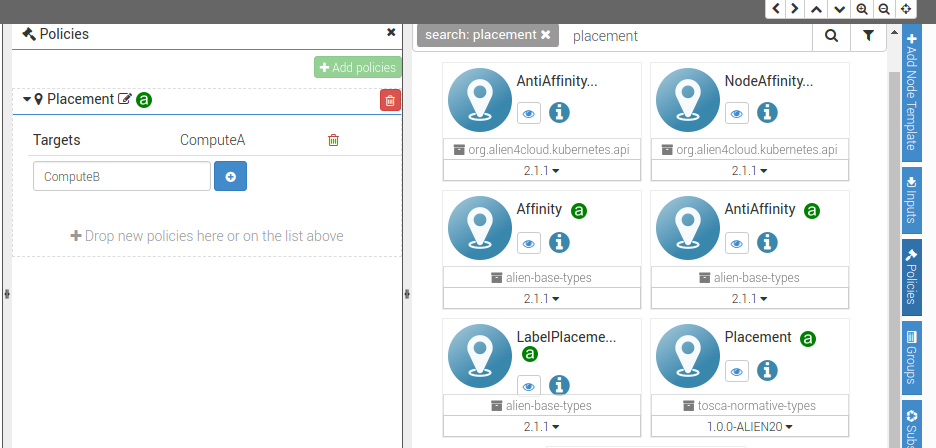
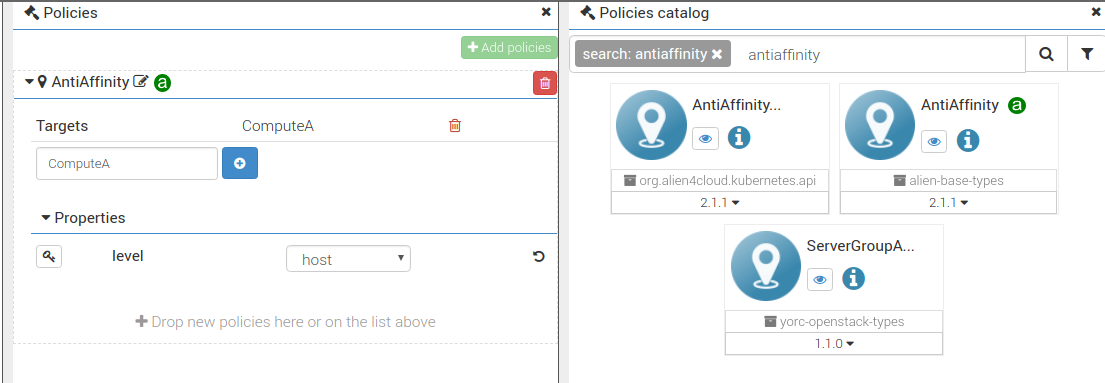
Refactor yorc.openstack.policies.ServerGroup to yorc.openstack.policies.ServerGroupAntiAffinity and yorc.openstack.policies.ServerGroupAffinity Increment yorc.openstack.types.version Update documentation

diff --git a/alien4cloud-yorc-plugin/src/main/java/org/ystia/yorc/alien4cloud/plugin/policies/OpenStackServerGroupTopologyModifier.java b/alien4cloud-yorc-plugin/src/main/java/org/ystia/yorc/alien4cloud/plugin/policies/OpenStackServerGroupTopologyModifier.java
@@ -33,7 +33,8 @@ public class OpenStackServerGroupTopologyModifier extends TopologyModifierSuppor
 
     protected static final String YORC_OPENSTACK_SERVER_GROUP_TOPOLOGY_MODIFIER = "yorc-openstack-server-group-modifier";
     private static final String TOSCA_NODES_COMPUTE = "tosca.nodes.Compute";
-    private static final String SERVER_GROUP_POLICY = "yorc.openstack.policies.ServerGroupPolicy";
+    private static final String AFFINITY_POLICY = "yorc.openstack.policies.ServerGroupAffinity";
+    private static final String ANTI_AFFINITY_POLICY = "yorc.openstack.policies.ServerGroupAntiAffinity";
 
     @Inject
     private IToscaTypeSearchService toscaTypeSearchService;
@@ -45,7 +46,7 @@ public class OpenStackServerGroupTopologyModifier extends TopologyModifierSuppor
         try {
             WorkflowValidator.disableValidationThreadLocal.set(true);
             List<PolicyTemplate> policies = safe(topology.getPolicies()).values().stream()
-                    .filter(policyTemplate -> Objects.equals(SERVER_GROUP_POLICY, policyTemplate.getType())).collect(Collectors.toList());
+                    .filter(policyTemplate -> Objects.equals(AFFINITY_POLICY, policyTemplate.getType()) || Objects.equals(ANTI_AFFINITY_POLICY, policyTemplate.getType())).collect(Collectors.toList());
 
             if (!checkDuplicatedTargetsIntoPolicies(policies, context)) {
                 safe(policies).forEach(policyTemplate -> apply(policyTemplate, topology, context));
@@ -62,7 +63,7 @@ public class OpenStackServerGroupTopologyModifier extends TopologyModifierSuppor
         for (PolicyTemplate policy : policies) {
             for (String target :  policy.getTargets()) {
                 if (allTargets.containsKey(target)) {
-                    context.log().error("Found target <{}> into several policies: <{}, {}>. Can't associate a target to several policies.", target, allTargets.get(target), policy.getName());
+                    context.log().error("Found target <{}> into several policies: <{}, {}>. Can't associate a target to several affinity/anti-affinity policies.", target, allTargets.get(target), policy.getName());
                     return true;
                 }
                 allTargets.put(target, policy.getName());
@@ -95,17 +96,12 @@ public class OpenStackServerGroupTopologyModifier extends TopologyModifierSuppor
     }
 
     private void apply(final PolicyTemplate policy, final Topology topology, final FlowExecutionContext context) {
-        if (policy.getProperties() == null || policy.getProperties().get("policy") == null) {
-            context.log().error("policy property for {} must be filled", SERVER_GROUP_POLICY);
-            return;
-        }
-
         Set<NodeTemplate> validTargets = getValidTargets(policy, topology,
                 invalidName -> context.log().warn("OpenStack ServerGroup policy <{}>: will ignore target <{}> as it IS NOT an instance of <{}>.", policy.getName(),
                         invalidName, TOSCA_NODES_COMPUTE));
 
         if (!checkIfServerGroupIsRequired(validTargets)) {
-            context.log().warn("no valid target found for applying policy:", SERVER_GROUP_POLICY);
+            context.log().warn("no valid target found for applying policy <{}>", policy.getName());
             return;
         }
 
@@ -116,8 +112,29 @@ public class OpenStackServerGroupTopologyModifier extends TopologyModifierSuppor
         NodeType serverGroupNodeType = toscaTypeSearchService.findMostRecent(NodeType.class, serverGroupTypeName);
         List<MemberRelationship> relationshipsToAdd = new ArrayList<>();
 
+        // Set policy
+        String policyType = "";
+        String strictStr = ((ScalarPropertyValue)policy.getProperties().get("strict")).getValue();
+        boolean strict = Boolean.parseBoolean(strictStr);
+
+        switch (policy.getType()) {
+            case AFFINITY_POLICY:
+                if (strict) {
+                    policyType = "affinity";
+                } else {
+                    policyType = "soft-affinity";
+                }
+                break;
+            case ANTI_AFFINITY_POLICY:
+                if (strict) {
+                    policyType = "anti-affinity";
+                } else {
+                    policyType = "soft-anti-affinity";
+                }
+                break;
+        }
         Map<String, AbstractPropertyValue> properties = new LinkedHashMap<>();
-        properties.put("policy", policy.getProperties().get("policy"));
+        properties.put("policy", new ScalarPropertyValue(policyType));
 
         // Set unique name to serverGroup
         ScalarPropertyValue spv = new ScalarPropertyValue();
@@ -140,7 +157,6 @@ public class OpenStackServerGroupTopologyModifier extends TopologyModifierSuppor
 
         serverGroupNodeTemplate.setProperties(properties);
         serverGroupNodeTemplate.setCapabilities(capabilities);
-        String policyType = ((ScalarPropertyValue) policy.getProperties().get("policy")).getValue();
         context.getLog().info(String.format("Add server group node template with name:<%s> and policy; <%s>", name, policyType));
 
         // Add relationship MemberOf with each target

diff --git a/documentation/policies.rst b/documentation/policies.rst
@@ -25,18 +25,23 @@ Let's imagine the use case of a resilient application on OpenStack:
 This application is scalable but to enhance HA, you want each app instance located in a different
 physical machine. So, if a breakdown occurs on one specific host, it doesn't touch all app instances but only one.
 
-This can be done by applying the ``yorc.openstack.policies.ServerGroupPolicy`` on OpenStack with an anti-affinity policy.
+This can be done by applying ``yorc.openstack.policies.ServerGroupAntiAffinity`` on OpenStack.
 
 Let's do it !
 
-After configuring your OpenStack location as described :ref:`here <location_config_openstack_section>`, click on the |OrchLocPolicies| button, select ``catalog`` and use the search to find the ServerGroupPolicy as below.
+After configuring your OpenStack location as described :ref:`here <location_config_openstack_section>`, click on the |OrchLocPolicies| button, select ``catalog`` and use the search to find the ServerGroupAntiAffinity as below.
 
 .. image:: _static/img/search-servergroup-policy.png
    :alt: Search serverGroup policy
    :align: center
 
 Next, drag-and-drop the policy in the new policies resources list of your OpenStack location.
-Rename the resource, for example ``AntiAffinityPolicy``. Select ``anti-affinity`` in the policy property.
+Rename the resource, for example ``ServerGroupAntiAffinity``. Select ``anti-affinity`` in the policy property.
+Set the ``level`` property to ``host`` as it's a policy placement of ``host`` type by opposition to ``zone`` or ``region`` placement.
+
+You can set the strict property to false (by default, this is set to true) if you accept that your deployment will be successful even if some instances are co-located.
+Take care this is only possible if your OpenStack environment support Compute service API 2.15 or above.
+
 You must finally have this configuration:
 
 .. image:: _static/img/servergroup-policy-resource.png
@@ -47,21 +52,23 @@ Now, your OpenStack location is configured with a Server Group anti-affinity pla
 You can apply it on your topology application by using abstract and so non infrastructure-dependent nodes and policies that let you deploy your application as well on OpenStack or on GCP if another specific placement policy is implemented for GCP too.
 
 Select your application and go to the ``Topology Editor``. Click on the |TopologyEditorPolicies| button on the vertical blue bar on the left.
-Click on the ``+ Add policies`` button, search the abstract policy node ``Placement`` (tosca.policies.Placement) and drag-and-drop it on the policies list of your topology.
+Click on the ``+ Add policies`` button, search the abstract policy node ``AntiAffinity`` (org.alien4cloud.policies.Affinity) from alien-base-types and drag-and-drop it on the policies list of your topology.
+
+Set the ``level`` property to ``host``.
 
 Then you can select the ``Targets`` of the placement policy, i.e in this case, the node name of the compute instances you want not to be located on the same host.
 
-Valid targets for applying ``ServerGroupPolicy`` are:
+Valid targets for applying ``ServerGroupAntiAffinity`` are:
 
   * One scalable compute node template with at least two as max instances number.
   * At least two different compute node templates, not necessarily scalable.
 
 .. image:: _static/img/placement-topology-editor.png
-   :alt: Add placement policy to your topology application
+   :alt: Add abstract anti-affinity policy to your topology application
    :align: center
 
 
-That's it ! You just have to check the correct policy matching after choosing the Openstack location as the ``ServerGroupPolicy`` derives from ``tosca.policies.Placement``
+That's it ! You just have to check the correct policy matching after choosing the Openstack location as the ``ServerGroupAntiAffinity`` derives from ``org.alien4cloud.policies.Affinity``
 
 Deploy the application and enjoy !
 
